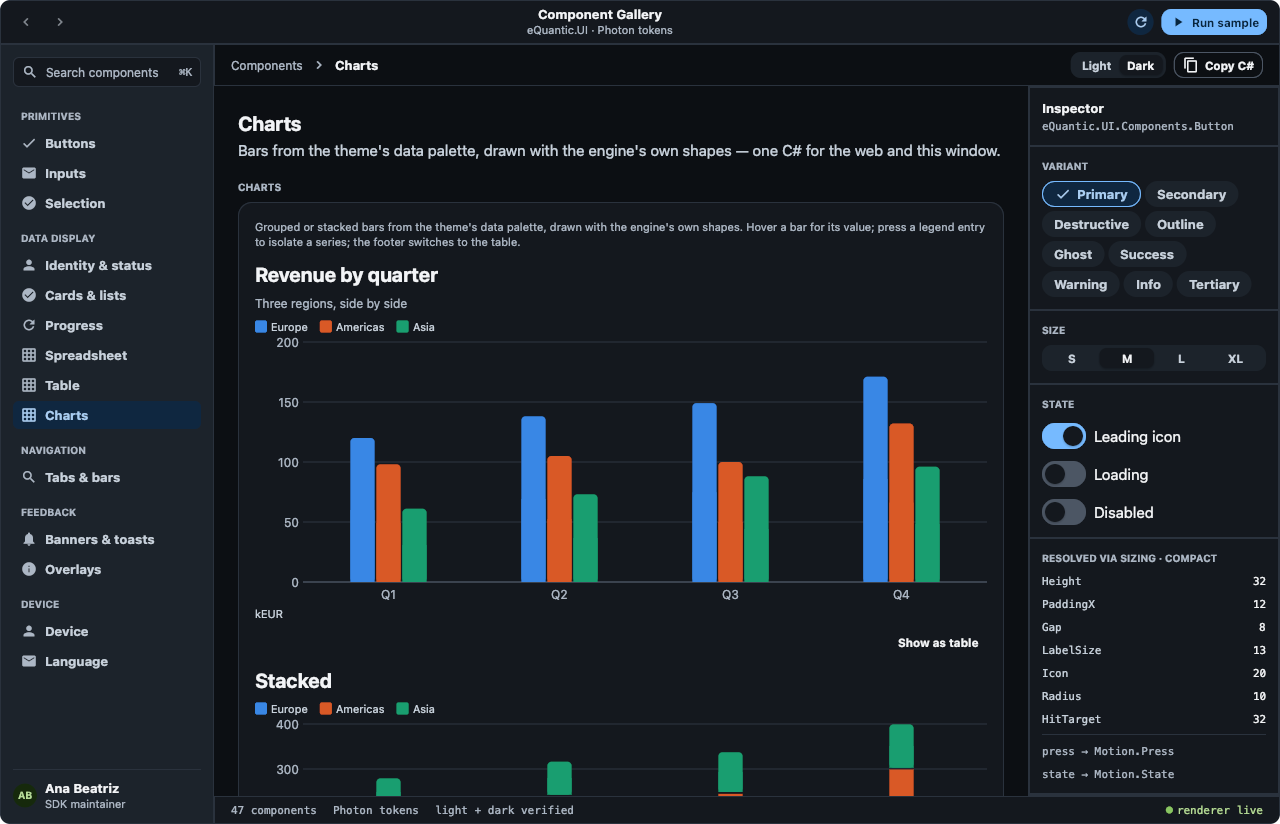
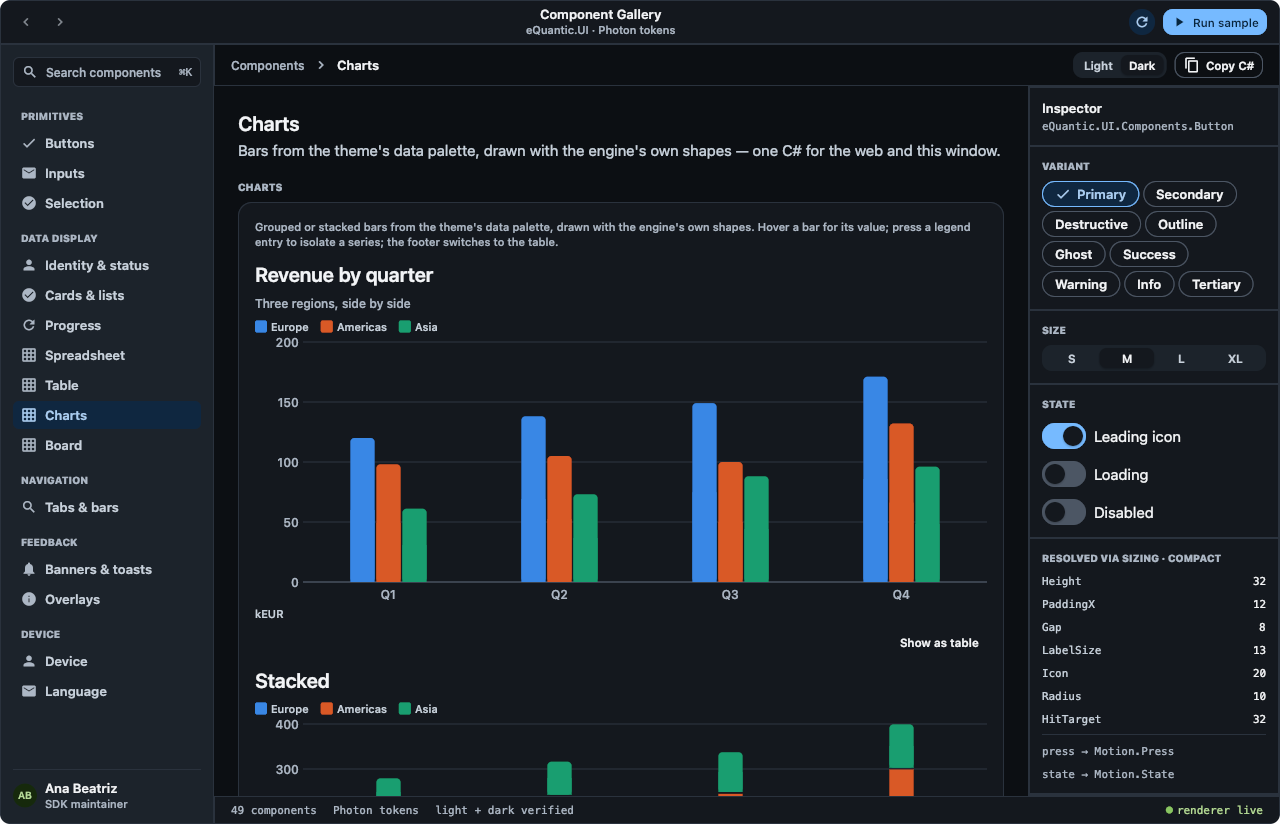
✨ feat: the desktop gallery's board moves its cards on Photon
The PhotonDesktop gallery gains a Board section, the web dashboard's /board drawn
by Photon from the same two nodes, so the README's desktop pictures are taken
again for the new entry in its sidebar.

diff --git a/samples/PhotonDesktop/Studio/Gallery.Board.cs b/samples/PhotonDesktop/Studio/Gallery.Board.cs
@@ -1,0 +1,97 @@
+using eQuantic.UI.Components;
+using eQuantic.UI.Primitives;
+
+namespace eQuantic.Studio;
+
+/// <summary>
+/// The board (#1537): cards a pointer or the keyboard moves inside a column and across columns, the same
+/// board the web dashboard's <c>/board</c> draws, from the same two nodes. Each column is a <c>Sortable</c> of
+/// the group <c>board</c> and each card a <c>SortableItem</c>; the board draws where a card would land from
+/// the column's hover report and moves the card in its own list when it is dropped. A press on a card that
+/// does not travel still opens it.
+/// </summary>
+public static partial class Gallery
+{
+    private static readonly string[] BoardColumns = ["To do", "Doing", "Done"];
+
+    private static VisualNode Board(IAppTheme theme, SectionState state, Action<Action> mutate)
+    {
+        var columns = new Row(gap: Space.S4) { Cross = CrossAlign.Start, Width = SizeValue.Fill };
+        foreach (var name in BoardColumns) columns.Add(new Flexible(BoardColumn(theme, state, mutate, name), 1));
+
+        var column = Column(Space.S3);
+        column.Add(Caption(theme,
+            "Drag a card inside its column or to another one, or focus it and press Space: the arrows carry it, "
+            + "Space drops it and Escape puts it back. A press that does not move opens it."));
+        column.Add(columns);
+        column.Add(Label(theme, state.BoardOpened is null ? "No card opened." : $"Opened: {state.BoardOpened}"));
+        return Section(theme, "Board", column);
+    }
+
+    private static VisualNode BoardColumn(IAppTheme theme, SectionState state, Action<Action> mutate, string name)
+    {
+        var cards = state.BoardCards.Where(card => card.Column == name).ToList();
+        var list = new Column(gap: Space.S2) { Width = SizeValue.Fill };
+        // Where the card would land, drawn by the board from the column's report. The report counts the
+        // column without the carried card, which this column still draws, so a place at or after it is one
+        // further down here.
+        var line = -1;
+        if (state.BoardLanding is { } landing && landing.To == name)
+        {
+            var carried = cards.FindIndex(card => card.Id == landing.Item);
+            line = carried >= 0 && carried <= landing.Index ? landing.Index + 1 : landing.Index;
+        }
+        for (var i = 0; i <= cards.Count; i++)
+        {
+            if (i == line)
+                list.Add(new Box(new BoxStyle { Width = SizeValue.Fill, Height = 3, Background = theme.FocusRing }));
+            if (i < cards.Count) list.Add(SortableItem(BoardCardOf(theme, state, mutate, cards[i]), cards[i].Id));
+        }
+
+        var body = new Column(gap: Space.S3) { Width = SizeValue.Fill };
+        body.Add(new Text($"{name} · {cards.Count}", TypeRole.Label, theme.TextSecondary, maxLines: 1));
+        // The whole body of the column is the list, so a card lands in an empty column too.
+        body.Add(Sortable(new Box(new BoxStyle { Width = SizeValue.Fill, MinHeight = 160 }, list), name,
+            drop => mutate(() => DropCard(state, drop)), group: "board",
+            onHovered: drop => mutate(() => state.BoardLanding = drop), label: name));
+        return new Box(new BoxStyle
+        {
+            Width = SizeValue.Fill,
+            Padding = EdgeInsets.All(Space.S3),
+            Background = theme.SurfaceSubtle,
+            CornerRadius = new CornerRadii(Radius.Md),
+        }, body);
+    }
+
+    private static VisualNode BoardCardOf(IAppTheme theme, SectionState state, Action<Action> mutate, BoardCard card) =>
+        new Pressable(new Box(new BoxStyle
+        {
+            Width = SizeValue.Fill,
+            Padding = EdgeInsets.All(Space.S3),
+            Background = theme.Surface,
+            BorderWidth = 1,
+            BorderColor = theme.Border,
+            CornerRadius = new CornerRadii(Radius.Sm),
+        }, new Text(card.Title, TypeRole.BodyM, theme.TextPrimary, maxLines: 1)),
+        () => mutate(() => state.BoardOpened = card.Title));
+
+    /// <summary>Takes the card out of its column and inserts it where the drop says, counted without it.</summary>
+    private static void DropCard(SectionState state, SortDrop drop)
+    {
+        state.BoardLanding = null;
+        var moved = state.BoardCards.First(card => card.Id == drop.Item) with { Column = drop.To };
+        var rest = state.BoardCards.Where(card => card.Id != drop.Item).ToList();
+        var inColumn = rest.Where(card => card.Column == drop.To).ToList();
+        var at = drop.Index < inColumn.Count ? rest.IndexOf(inColumn[drop.Index]) : LastOf(rest, drop.To) + 1;
+        rest.Insert(at, moved);
+        state.BoardCards = rest;
+    }
+
+    private static int LastOf(List<BoardCard> cards, string column)
+    {
+        var last = -1;
+        for (var i = 0; i < cards.Count; i++)
+            if (cards[i].Column == column) last = i;
+        return last < 0 ? cards.Count - 1 : last;
+    }
+}

diff --git a/samples/PhotonDesktop/Studio/Gallery.cs b/samples/PhotonDesktop/Studio/Gallery.cs
@@ -21,11 +21,12 @@ public enum GallerySection
     Sheets = 6,
     Table = 7,
     Charts = 8,
-    Navigation = 9,
-    Feedback = 10,
-    Overlays = 11,
-    Device = 12,
-    Culture = 13,
+    Board = 9,
+    Navigation = 10,
+    Feedback = 11,
+    Overlays = 12,
+    Device = 13,
+    Culture = 14,
 }
 
 /// <summary>
@@ -33,7 +34,7 @@ public enum GallerySection
 /// Kept apart from the shell so the shell is only chrome and the sections are only components —
 /// adding a control to the library means adding it here and nowhere else.
 /// </summary>
-public static class Gallery
+public static partial class Gallery
 {
     public static readonly GallerySection[] Sections = Enum.GetValues<GallerySection>();
 
@@ -59,6 +60,7 @@ public static class Gallery
         GallerySection.Sheets => "Spreadsheet",
         GallerySection.Table => "Table",
         GallerySection.Charts => "Charts",
+        GallerySection.Board => "Board",
         GallerySection.Culture => "Language",
         _ => "Device",
     };
@@ -69,7 +71,8 @@ public static class Gallery
     {
         GallerySection.Buttons or GallerySection.Inputs or GallerySection.Selection => "Primitives",
         GallerySection.DataDisplay or GallerySection.Containers or GallerySection.Progress
-            or GallerySection.Sheets or GallerySection.Table or GallerySection.Charts => "Data display",
+            or GallerySection.Sheets or GallerySection.Table or GallerySection.Charts
+            or GallerySection.Board => "Data display",
         GallerySection.Navigation => "Navigation",
         GallerySection.Feedback or GallerySection.Overlays => "Feedback",
         _ => "Device",   // Language belongs here too: what the MACHINE says, taken as a service.
@@ -109,6 +112,8 @@ public static class Gallery
             "Excel's whole grid, built only where it is in view: both axes scroll, the header row and column stay.",
         GallerySection.Charts =>
             "Bars from the theme's data palette, drawn with the engine's own shapes — one C# for the web and this window.",
+        GallerySection.Board =>
+            "Cards a pointer or the keyboard moves inside a column and across columns — one C# for every target.",
         GallerySection.Culture =>
             "Two cultures in one window: resx strings and .NET formats, switched without a reload.",
         _ => "What the DEVICE can do, taken through a constructor like any other dependency.",
@@ -128,6 +133,7 @@ public static class Gallery
         GallerySection.Sheets => Icons.Table,
         GallerySection.Table => Icons.Table,
         GallerySection.Charts => Icons.Table,
+        GallerySection.Board => Icons.Table,
         GallerySection.Culture => Icons.Mail,
         _ => Icons.Person,
     };
@@ -147,6 +153,7 @@ public static class Gallery
         GallerySection.Sheets => 1,
         GallerySection.Table => 1,
         GallerySection.Charts => 1,
+        GallerySection.Board => 2,
         GallerySection.Culture => 2,
         _ => 6,
     };
@@ -167,6 +174,7 @@ public static class Gallery
         GallerySection.Sheets => Sheets(theme, state),
         GallerySection.Table => TableGrid(theme),
         GallerySection.Charts => Charts(theme),
+        GallerySection.Board => Board(theme, state, mutate),
         GallerySection.Culture => Culture(theme, state),
         _ => Device(theme, state, mutate),
     };

diff --git a/tests/eQuantic.UI.Native.Engine.Tests/StudioBoardTests.cs b/tests/eQuantic.UI.Native.Engine.Tests/StudioBoardTests.cs
@@ -1,0 +1,82 @@
+using eQuantic.Studio;
+using eQuantic.UI.Native.Components;
+using eQuantic.UI.Native.Engine;
+using eQuantic.UI.Native.Framework;
+using eQuantic.UI.Primitives;
+using FluentAssertions;
+using Microsoft.Extensions.Configuration;
+using Xunit;
+
+namespace eQuantic.UI.Native.Engine.Tests;
+
+/// <summary>
+/// The desktop sample's board (#1537), moved through its host: the gallery's Board section is the web
+/// dashboard's <c>/board</c> on Photon, and a card a mouse carries to another column is built there next.
+/// </summary>
+public class StudioBoardTests
+{
+    private const float Width = 1180;
+    private const float Height = 820;
+
+    private static PhotonHost OpenBoard()
+    {
+        var configuration = new ConfigurationBuilder()
+            .AddInMemoryCollection(new Dictionary<string, string?> { ["section"] = GallerySection.Board.ToString() })
+            .Build();
+        var host = new PhotonHost(new StudioShell(configuration), PhotonTheme.Instance, ThemeMode.Light, Width, Height);
+        host.RenderFrame(new DisplayListBuilder(), 0);
+        host.RenderFrame(new DisplayListBuilder(), 16);
+        return host;
+    }
+
+    private static IEnumerable<LayoutNode> Walk(LayoutNode node)
+    {
+        yield return node;
+        foreach (var child in node.Children)
+            foreach (var below in Walk(child))
+                yield return below;
+    }
+
+    private static LayoutNode ListOf(PhotonHost host, string column) =>
+        Walk(host.LastFrame!.Root).First(n => n.Source is Sortable { } list && list.Id == column);
+
+    private static string[] CardsIn(PhotonHost host, string column) =>
+        Walk(ListOf(host, column)).Select(n => n.Source).OfType<SortableItem>().Select(item => item.Id).ToArray();
+
+    [Fact]
+    public void ACardCarriedToTheNextColumn_IsBuiltThere()
+    {
+        var host = OpenBoard();
+        CardsIn(host, "Doing").Should().Equal("c4");
+        var card = Walk(ListOf(host, "To do")).First(n => n.Source is SortableItem { Id: "c1" }).Bounds.Center;
+        var doing = ListOf(host, "Doing").Bounds;
+
+        host.PressDown(card.X, card.Y);
+        host.PointerMove(card.X + 10, card.Y);
+        host.RenderFrame(new DisplayListBuilder(), 32);
+        // Below the column's one card: it lands after it.
+        host.PointerMove(doing.Center.X, doing.Bottom - 10);
+        host.RenderFrame(new DisplayListBuilder(), 48);
+        host.PressUp(doing.Center.X, doing.Bottom - 10);
+        host.RenderFrame(new DisplayListBuilder(), 64);
+        host.RenderFrame(new DisplayListBuilder(), 80);
+
+        CardsIn(host, "Doing").Should().Equal("c4", "c1");
+        CardsIn(host, "To do").Should().Equal("c2", "c3");
+    }
+
+    [Fact]
+    public void APressThatDoesNotTravel_OpensTheCard()
+    {
+        var host = OpenBoard();
+        var card = Walk(ListOf(host, "To do")).First(n => n.Source is SortableItem { Id: "c2" }).Bounds.Center;
+
+        host.PressDown(card.X, card.Y);
+        host.PressUp(card.X, card.Y);
+        host.RenderFrame(new DisplayListBuilder(), 32);
+
+        Walk(host.LastFrame!.Root).Select(n => n.Source).OfType<Text>()
+            .Should().Contain(text => text.Content == "Opened: Sort the lists");
+        CardsIn(host, "To do").Should().Equal("c1", "c2", "c3");
+    }
+}

diff --git a/samples/PhotonDesktop/Studio/StudioShell.cs b/samples/PhotonDesktop/Studio/StudioShell.cs
@@ -911,4 +911,16 @@ public sealed class SectionState
     /// switcher that cannot switch.</summary>
     public string UICulture = "en";
     public Action<string>? OnCulture;
+
+    /// <summary>The board's cards, where a pointer or the keyboard would land one, and the card last opened.</summary>
+    public List<BoardCard> BoardCards =
+    [
+        new("c1", "Draw the tree", "To do"),
+        new("c2", "Sort the lists", "To do"),
+        new("c3", "Read the board aloud", "To do"),
+        new("c4", "Ship the preview", "Doing"),
+        new("c5", "Write the wiki", "Done"),
+    ];
+    public SortDrop? BoardLanding;
+    public string? BoardOpened;
 }

diff --git a/samples/PhotonDesktop/Studio/BoardCard.cs b/samples/PhotonDesktop/Studio/BoardCard.cs
@@ -1,0 +1,4 @@
+namespace eQuantic.Studio;
+
+/// <summary>One card of the gallery's board, and the column it stands in.</summary>
+public sealed record BoardCard(string Id, string Title, string Column);
